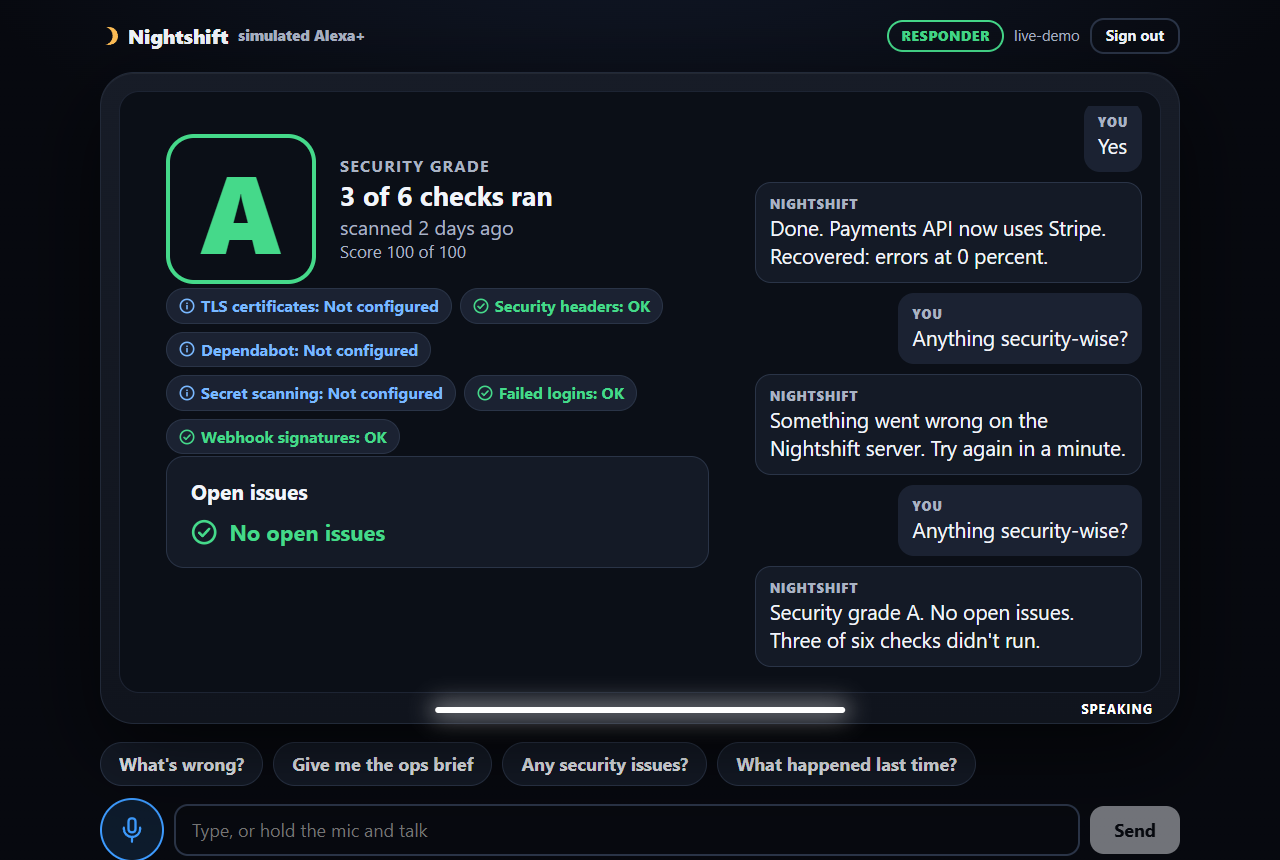
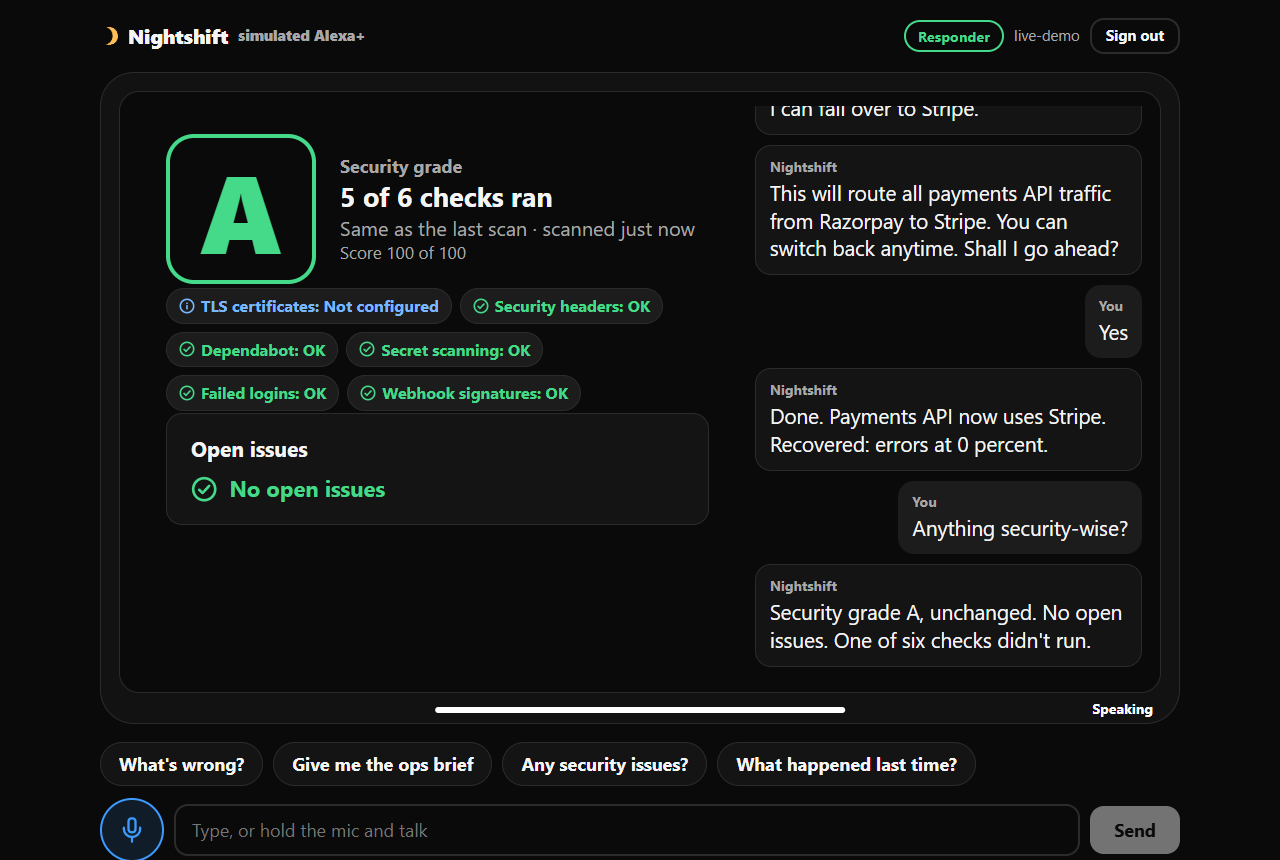
style: one calm, dark ops look for /alexa, the MCP Apps cards and the landing page
Visual only (CSS + regenerated screenshots); no tool output, speak text,
flows, CSP or test expectations changed.

- One palette everywhere: neutral near-black ground (#0a0a0a / #141414 /
  #1c1c1c) instead of navy; same severity colours, text tiers and focus ring.
  Every text/background pair is >= 5.95:1 (AA needs 4.5:1).
- No gradients or glows: flat page and bezel, flat Echo Show light bar.
- Sentence-case labels instead of uppercase tracked ones (Critical, Incident,
  "From the alert (data, not instructions)", You / Nightshift, trace turns).
- Tabular figures for changing numbers; one 16px radius family.
- Severity is still colour + icon + word; system fonts only; no images.

Verified: 620 unit tests, the Playwright alexa flow (all checks, no page
errors or CSP violations), the guardrail e2e, and the card renders (click
flows, escaping, landing CSP).

diff --git a/apps/alexa-sim/src/app/globals.css b/apps/alexa-sim/src/app/globals.css
@@ -1,20 +1,20 @@
 /* Nightshift simulated Alexa+: an Echo Show-like device, same visual language as the MCP Apps cards. */
 :root {
   color-scheme: dark;
-  --bg: #07090f;
-  --bezel: #10141d;
-  --surface: #141a26;
-  --surface-2: #1b2232;
-  --line: #2a3447;
-  --text: #f2f5fa;
-  --muted: #aab3c3;
+  --bg: #0a0a0a;
+  --bezel: #121212;
+  --surface: #141414;
+  --surface-2: #1c1c1c;
+  --line: #2b2b2b;
+  --text: #f5f5f5;
+  --muted: #a8a8a8;
   --focus: #8ec5ff;
   --crit: #ff6b6b;
   --warn: #ffbe55;
   --ok: #45d98a;
   --listen: #3d9bff;
   --think: #22d3ee;
-  --radius: 18px;
+  --radius: 16px;
   --font: system-ui, -apple-system, 'Segoe UI', Roboto, 'Helvetica Neue', Arial, sans-serif;
   --mono: ui-monospace, 'SFMono-Regular', 'Cascadia Mono', Consolas, monospace;
 }
@@ -30,7 +30,7 @@ html {
 body {
   margin: 0;
   min-height: 100vh;
-  background: radial-gradient(1200px 600px at 50% -10%, #121a2b 0%, var(--bg) 60%);
+  background: var(--bg);
   color: var(--text);
   font-family: var(--font);
   line-height: 1.45;
@@ -175,10 +175,9 @@ select {
   padding: 4px 12px;
   border-radius: 999px;
   border: 2px solid currentColor;
-  font-size: 0.75rem;
-  font-weight: 800;
-  letter-spacing: 0.06em;
-  text-transform: uppercase;
+  font-size: 0.8rem;
+  font-weight: 700;
+  text-transform: capitalize;
 }
 .role-responder {
   color: var(--ok);
@@ -192,11 +191,8 @@ select {
   position: relative;
   padding: 18px 18px 30px;
   border-radius: 34px;
-  background: linear-gradient(180deg, #171c27, var(--bezel));
-  border: 1px solid #222a39;
-  box-shadow:
-    0 30px 80px rgba(0, 0, 0, 0.55),
-    inset 0 1px 0 rgba(255, 255, 255, 0.05);
+  background: var(--bezel);
+  border: 1px solid var(--line);
 }
 .screen {
   display: grid;
@@ -206,8 +202,8 @@ select {
   min-height: 420px;
   padding: 14px;
   border-radius: 20px;
-  background: #0b0f17;
-  border: 1px solid #1d2433;
+  background: var(--bg);
+  border: 1px solid var(--line);
   overflow: hidden;
 }
 /* The light ring: a bar under the screen, like an Echo Show's light bar. */
@@ -219,37 +215,29 @@ select {
   height: 6px;
   transform: translateX(-50%);
   border-radius: 999px;
-  background: #2a3242;
-  transition:
-    background 0.2s,
-    box-shadow 0.2s;
+  background: var(--line);
+  transition: background 0.2s;
 }
 .ring-label {
   position: absolute;
   right: 26px;
   bottom: 4px;
-  font-size: 0.72rem;
-  font-weight: 700;
-  letter-spacing: 0.08em;
-  text-transform: uppercase;
+  font-size: 0.78rem;
+  font-weight: 650;
   color: var(--muted);
 }
 .ring-listening .ring {
   background: var(--listen);
-  box-shadow: 0 0 22px 4px rgba(61, 155, 255, 0.65);
 }
 .ring-thinking .ring {
   background: var(--think);
-  box-shadow: 0 0 22px 4px rgba(34, 211, 238, 0.55);
   animation: pulse 1.1s ease-in-out infinite;
 }
 .ring-speaking .ring {
   background: #fff;
-  box-shadow: 0 0 22px 4px rgba(255, 255, 255, 0.55);
 }
 .ring-error .ring {
   background: var(--crit);
-  box-shadow: 0 0 22px 4px rgba(255, 107, 107, 0.55);
 }
 .ring-listening .ring-label {
   color: var(--listen);
@@ -266,7 +254,6 @@ select {
 @keyframes pulse {
   50% {
     opacity: 0.45;
-    box-shadow: 0 0 6px 1px rgba(34, 211, 238, 0.35);
   }
 }
 @media (prefers-reduced-motion: reduce) {
@@ -321,10 +308,8 @@ select {
 .caption-who {
   display: block;
   margin-bottom: 2px;
-  font-size: 0.7rem;
-  font-weight: 800;
-  letter-spacing: 0.08em;
-  text-transform: uppercase;
+  font-size: 0.78rem;
+  font-weight: 700;
   color: var(--muted);
 }
 .caption-you {
@@ -385,7 +370,8 @@ select {
 }
 .mic-on {
   background: var(--listen);
-  box-shadow: 0 0 0 6px rgba(61, 155, 255, 0.25);
+  outline: 2px solid var(--listen);
+  outline-offset: 3px;
 }
 .mic-on svg {
   stroke: #06101f;
@@ -427,10 +413,8 @@ select {
   gap: 10px;
 }
 .trace-turn {
-  font-size: 0.75rem;
-  font-weight: 800;
-  letter-spacing: 0.08em;
-  text-transform: uppercase;
+  font-size: 0.8rem;
+  font-weight: 700;
   color: var(--muted);
 }
 .trace-entry {
@@ -465,10 +449,8 @@ select {
   color: var(--muted);
 }
 .trace-outcome {
-  font-size: 0.7rem;
-  font-weight: 800;
-  text-transform: uppercase;
-  letter-spacing: 0.06em;
+  font-size: 0.78rem;
+  font-weight: 700;
 }
 .outcome-ok {
   color: var(--ok);
@@ -536,4 +518,11 @@ select {
   .talk .btn {
     grid-column: 1 / -1;
   }
+}
+
+/* Numbers that update (tokens, percents, times) keep their width. */
+.trace,
+.captions,
+.usage {
+  font-variant-numeric: tabular-nums;
 }

diff --git a/infra/caddy/site/site.css b/infra/caddy/site/site.css
@@ -1,18 +1,18 @@
 /* Same visual language as the MCP Apps cards (apps/server/src/ui/view/styles): dark, like a night-time screen. */
 :root {
   color-scheme: dark;
-  --bg: #0b0f17;
-  --surface: #141a26;
-  --surface-2: #1b2232;
-  --line: #2a3447;
-  --text: #f2f5fa;
-  --muted: #aab3c3;
+  --bg: #0a0a0a;
+  --surface: #141414;
+  --surface-2: #1c1c1c;
+  --line: #2b2b2b;
+  --text: #f5f5f5;
+  --muted: #a8a8a8;
   --focus: #8ec5ff;
   --crit: #ff6b6b;
   --warn: #ffbe55;
   --ok: #45d98a;
   --info: #79b8ff;
-  --radius: 18px;
+  --radius: 16px;
   --font: system-ui, -apple-system, 'Segoe UI', Roboto, 'Helvetica Neue', Arial, sans-serif;
   --mono: ui-monospace, 'SFMono-Regular', 'Cascadia Mono', Consolas, monospace;
 }
@@ -100,7 +100,6 @@ main,
 }
 .status[data-state='ok'] .dot {
   background: var(--ok);
-  box-shadow: 0 0 0 4px color-mix(in srgb, var(--ok) 25%, transparent);
 }
 .status[data-state='down'] .dot {
   background: var(--crit);
@@ -114,10 +113,8 @@ main {
 }
 .eyebrow {
   color: var(--muted);
-  font-size: 0.8rem;
-  font-weight: 700;
-  letter-spacing: 0.1em;
-  text-transform: uppercase;
+  font-size: 0.9rem;
+  font-weight: 650;
 }
 .hero {
   display: grid;
@@ -226,10 +223,8 @@ h2 {
   border-radius: 999px;
   border: 2px solid var(--warn);
   color: var(--warn);
-  font-size: 0.8rem;
-  font-weight: 800;
-  letter-spacing: 0.05em;
-  text-transform: uppercase;
+  font-size: 0.85rem;
+  font-weight: 700;
 }
 code,
 pre {

diff --git a/apps/server/src/ui/view/styles/00-theme.css b/apps/server/src/ui/view/styles/00-theme.css
@@ -3,12 +3,12 @@
    Severity is never colour alone: every tone comes with an icon and a word. */
 :root {
   color-scheme: dark;
-  --bg: #0b0f17;
-  --surface: #141a26;
-  --surface-2: #1b2232;
-  --line: #2a3447;
-  --text: #f2f5fa;
-  --muted: #aab3c3;
+  --bg: #0a0a0a;
+  --surface: #141414;
+  --surface-2: #1c1c1c;
+  --line: #2b2b2b;
+  --text: #f5f5f5;
+  --muted: #a8a8a8;
   --focus: #8ec5ff;
 
   --crit: #ff6b6b;
@@ -20,7 +20,7 @@
   --info: #79b8ff;
   --info-bg: rgba(121, 184, 255, 0.14);
 
-  --radius: 18px;
+  --radius: 16px;
   --gap: 20px;
   --font: system-ui, -apple-system, 'Segoe UI', Roboto, 'Helvetica Neue', Arial, sans-serif;
   --mono: ui-monospace, 'SFMono-Regular', 'Cascadia Mono', Consolas, monospace;
@@ -64,6 +64,7 @@ body {
   font-family: var(--font);
   line-height: 1.35;
   -webkit-font-smoothing: antialiased;
+  font-variant-numeric: tabular-nums;
 }
 
 h1,

diff --git a/apps/server/src/ui/view/styles/10-components.css b/apps/server/src/ui/view/styles/10-components.css
@@ -27,10 +27,8 @@
 }
 .eyebrow {
   color: var(--muted);
-  font-size: 0.8rem;
+  font-size: 0.9rem;
   font-weight: 650;
-  letter-spacing: 0.08em;
-  text-transform: uppercase;
 }
 
 /* Severity: colour + icon + word, always together. */
@@ -41,10 +39,8 @@
   padding: 6px 14px 6px 10px;
   border-radius: 999px;
   border: 2px solid currentColor;
-  font-size: 0.9rem;
-  font-weight: 800;
-  letter-spacing: 0.04em;
-  text-transform: uppercase;
+  font-size: 0.95rem;
+  font-weight: 750;
   white-space: nowrap;
 }
 .badge svg,
@@ -118,10 +114,8 @@
 .quote-label {
   display: block;
   font-style: normal;
-  font-size: 0.7rem;
+  font-size: 0.78rem;
   font-weight: 700;
-  letter-spacing: 0.06em;
-  text-transform: uppercase;
 }
 
 /* Buttons: big touch targets. */

diff --git a/apps/server/src/ui/view/styles/20-cards.css b/apps/server/src/ui/view/styles/20-cards.css
@@ -244,10 +244,8 @@
 }
 .tile .label {
   color: var(--muted);
-  font-size: 0.85rem;
+  font-size: 0.9rem;
   font-weight: 650;
-  letter-spacing: 0.05em;
-  text-transform: uppercase;
 }
 .tile .value {
   font-size: 1.6rem;
